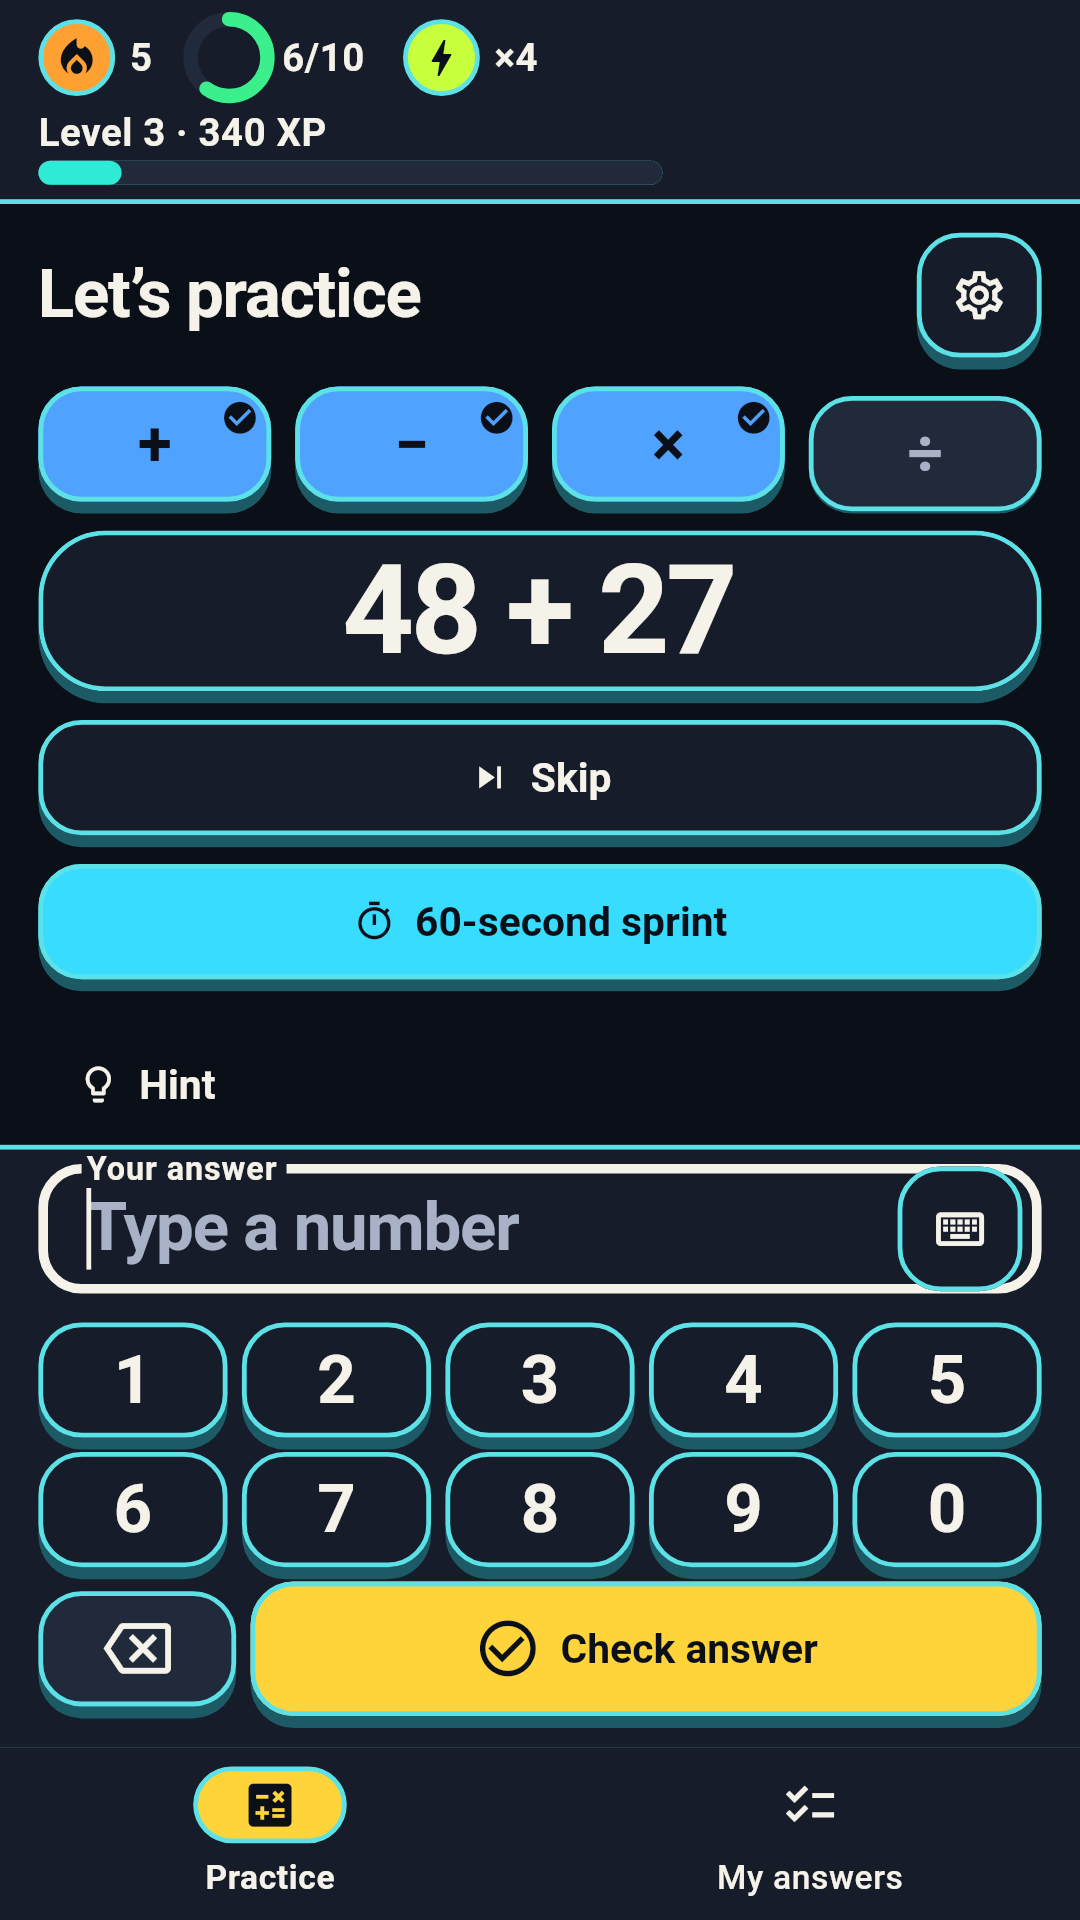
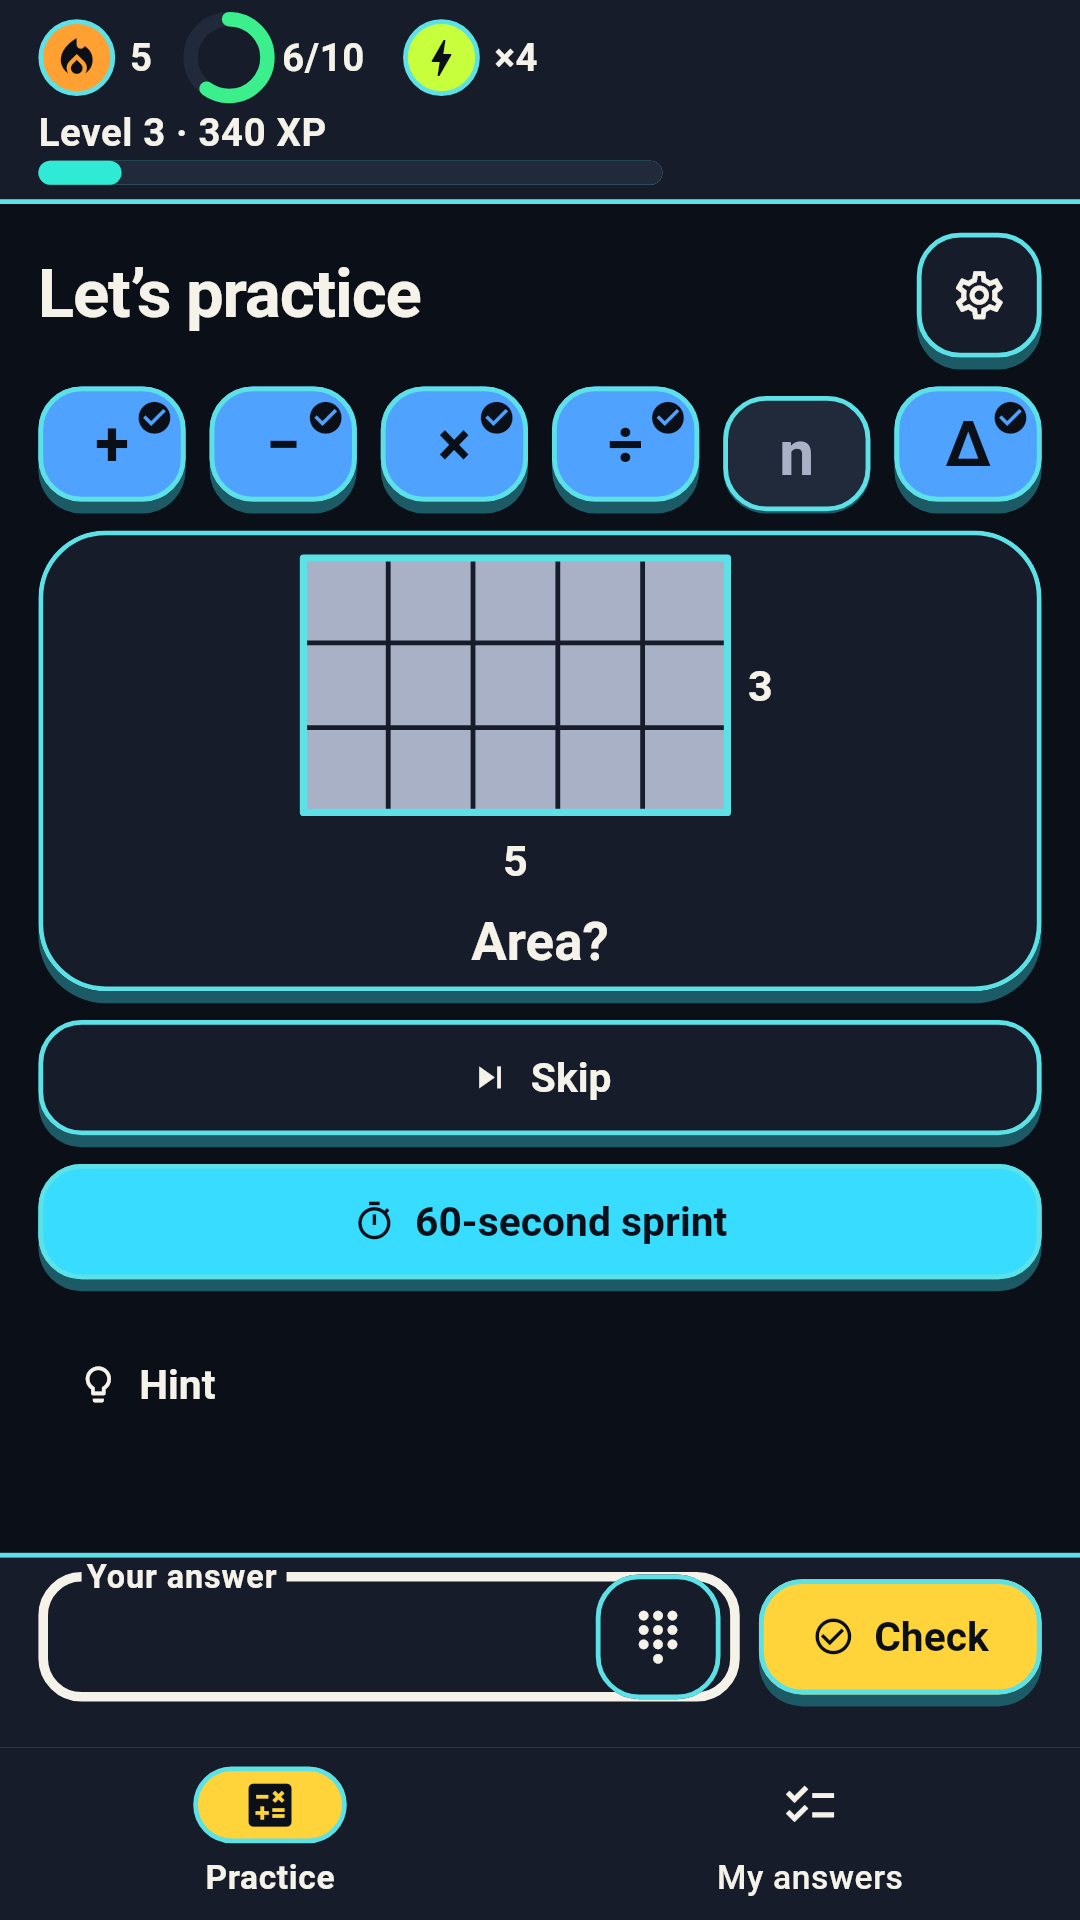
fix(translate): send plain strings, and document algebra and geometry (#144)
* fix(translate): send plain strings, and document algebra and geometry

The Translate workflow failed since #133 because DeepSeek answered some
batches (the same 20 keys for pl, fr and ro) with objects instead of
strings: each requested key was sent as {text, description}, and the
model mirrored that shape. Every value was rejected as "empty", and the
retries sent the same request again. Keys now go as plain key: text
pairs with the descriptions in a separate notes map, an answer object's
text is still accepted, and a rejected value that is not a string is
quoted in the log. The digit check is unchanged; it accepts all 3138
existing hashed translations.

Docs: docs/question-kinds.md lists the levels of algebra and geometry
with examples and counts, how correctness is checked and the saved
progress rules; DESIGN.md and README.md point to it. The English store
listing names the two kinds; phone-8-algebra.png is new and
phone-6-dark.png now shows geometry in the dark theme (Play allows 8).

* docs: keep level 3 out of an ordered list

* docs: credit figure questions from Illustrative Mathematics too

---------

diff --git a/app/lib/legal.dart b/app/lib/legal.dart
@@ -111,7 +111,8 @@ const List<({String name, String credit, String? licenseAsset})> attributions =
       (
         name: 'Illustrative Mathematics',
         credit:
-            'Equations and their printed answers from IM 6–8 Math (originally '
+            'Equations, figure questions and their printed answers from IM 6–8 '
+            'Math (originally '
             'developed by Open Up Resources and authored by Illustrative '
             'Mathematics, copyright 2017-2019 Open Up Resources; adaptations '
             'copyright 2019 Illustrative Mathematics) and IM K–5 Math '

diff --git a/docs/question-kinds.md b/docs/question-kinds.md
@@ -1,0 +1,116 @@
+# Algebra and geometry
+
+Besides the four arithmetic operations, the app has two more kinds of
+question: **algebra** (equations with one missing number) and **geometry**
+(figures drawn to scale). Both have five levels, like the arithmetic kinds.
+This page lists what each level asks and how the tests show that every
+question and answer is right. The counts below are the ones the tests print
+and check (`app/test/exhaustive_test.dart`, `app/test/geometry_test.dart`).
+
+## Off by default
+
+The four arithmetic operations are on by default. Algebra and geometry stay
+off until the player switches them on. A kind the player has never switched
+on, answered or closed gets a one-time card under the header ("New:
+Algebra", "Tap here to switch it on"). Tapping it switches the kind on;
+closing it hides that card for good. The card shows one kind at a time.
+
+Both kinds start at level 1 whatever starting tier the player chose (a tier
+sets only the arithmetic levels), and the 60-second sprint draws only from
+the arithmetic operations.
+
+## Algebra
+
+The unknown is an empty box at levels 1 and 2 and the letter *n* from
+level 3. Screen readers say "blank" for the box. Every answer is whole and at
+least 0, except at level 5, where answers can be below zero or in tenths.
+With algebra on, the number pad has a minus key and a decimal key.
+
+| Level | What it asks | Ranges | Example | Problems |
+|---|---|---|---|---|
+| 1 | A missing addend, subtrahend or minuend: a + □ = c, □ + a = c, c − □ = a, □ − a = b | a and b 0 to 10 | 3 + □ = 7 (4) | 484 |
+| 2 | A missing factor, divisor or dividend: □ × a = c, a × □ = c, c ÷ □ = a, □ ÷ a = b | a 2 to 10, b 1 to 10 | 18 ÷ □ = 6 (3) | 360 |
+| 3 | The same four forms with the letter *n*: n + a = c, n − a = b, a × n = c, n ÷ a = b | a 2 to 12, the other number 0 to 20 | 3 × n = 15 (5) | 924 |
+| 4 | Two steps: an + b = c and an − b = c (an means a × n) | a 2 to 9, b 1 to 20, n 1 to 20 | 2n + 3 = 11 (4) | 6111 |
+| 5 | Brackets, a division, answers below zero and in tenths: a(n − b) = c, a(n + b) = c, n ÷ a + b = c, an + b = c with n below zero, an = c with n in tenths | a 2 to 9, b 1 to 10, n −10 to 10 | 3n + 9 = 3 (−2), 4n = 10 (2.5) | 5920 |
+
+Hints undo one step at a time; only the last step states the answer,
+followed by a check with the answer put back into the equation.
+
+## Geometry
+
+The figure is drawn to scale in place of the question text, with a short
+prompt ("Perimeter?", "Area?") and cues that need no words: a thick outline
+for a perimeter, a shaded inside for an area. History and screen readers
+get a sentence that names the shape, every label and the question.
+Decimal answers (halves, circles) are exact hundredths, written with the
+language's decimal separator.
+
+| Level | What it asks | Ranges | Example | Problems |
+|---|---|---|---|---|
+| 1 | The perimeter of a square, a rectangle or a triangle | Sides 1 to 12, a rectangle's longer side at most 4 times the shorter; triangles with whole sides 2 to 12 and every angle at least 20° | Rectangle 5 by 3: 16 | 276 |
+| 2 | The area of a rectangle, with a unit grid on it | Sides 1 to 10, the longer at most 4 times the shorter | Rectangle 5 by 3: 15 | 84 |
+| 3 | A missing side (a `?` on the side) of a square or rectangle, from its perimeter or area | As level 1 | Perimeter 16, one side 5: 3 | 240 |
+| 4 | A missing angle, with an arc at every angle and a square in a right angle: in a triangle, on a straight line, in a right angle | Every angle whole and at least 20° (at least 10° in a right angle) | Triangle with 50° and 60°: 70 | 7593 |
+| 5 | The area of a right triangle; the perimeter and area of an L-shape and of rectangles with sides in halves; a circle's circumference (from its diameter) and area (from its radius), with "Use π = 3.14" shown | Legs 1 to 12; L-shapes with outer sides 4 to 12; halves 0.5 to 12; diameter 1 to 20, radius 1 to 10 | Legs 6 and 4: 12; 2.5 by 1.5: 3.75; diameter 6: 18.84 | 1568 |
+
+Hints name the sides or angles, then the calculation; only the last step
+states the answer.
+
+## How correctness is checked
+
+- **Pure builds over finite ranges.** Every algebra form and geometry
+  family is a pure function from a short list of whole numbers to a
+  question and its answer, and each level has a finite list of those
+  parameter lists. The tests list every problem of every level; nothing is
+  sampled.
+- **Independent oracles.** The tests check each question with code that
+  shares nothing with the app's builds and reads only what the child sees.
+  For algebra (`app/test/oracle.dart`), that is the displayed English
+  question text: it is parsed with the `math_expressions` package (a test-only
+  dependency), the equation must have exactly one solution, that solution
+  must be the app's answer, and putting it back must make both sides equal
+  in exact hundredths. For geometry (`app/test/geometry_oracle.dart`), it is
+  the shape type, the prompt and the drawn layout: each label belongs to its
+  nearest edge or angle, every drawn edge matches one common scale within
+  0.5%, right angles are right, the grid squares are evenly spaced and their
+  count is the area, and the oracle solves the figure from the labels.
+- **Exhaustive runs.** Algebra: 484, 360, 924, 6111 and 5920 problems
+  (levels 1 to 5), each through the oracle, and the oracle recomputes every
+  hint step of every problem. Geometry: 9761 problems, each laid out on 6
+  canvas sizes at text scale 1 and 2, 117132 oracle checks in all (3312,
+  1008, 2880, 91116 and 18816 for levels 1 to 5). Layout rules are checked
+  for every figure too: label text at least 12 px, labels inside the canvas
+  and apart from each other, readable colours in every palette.
+- **Mutation tests.** The oracles must reject wrong versions: an answer + 1,
+  a displayed number + 1, a generator that returns the result + 1, a hint
+  calculation off by 1 (algebra); an answer + 1, a label changed, moved or
+  hidden, the figure stretched by 20%, the prompts swapped, a grid square,
+  an angle arc or the π line removed, the radius and diameter cues swapped,
+  and the missing side moved (geometry).
+- **Textbook rows.** `app/test/algebra_known_answers_test.dart` holds
+  equations with the answers printed for them in Illustrative Mathematics
+  (see [attributions.md](attributions.md)). The oracle must accept each
+  printed answer and reject the answer + 1, and at least one row per level
+  is also built by the app's own generator. The rows cover a few forms per
+  level, not the whole range; some (such as 3e + 10.50 = 30) test the
+  oracle only, because the app does not ask them.
+  `app/test/geometry_known_answers_test.dart` does the same for figure
+  questions printed there (units dropped): the app builds each of them at
+  levels 2, 4 and 5, except one circle given by its diameter, which only
+  the oracle reads. The pages have no usable rows for levels 1 and 3, so
+  those rest on the oracle and on figures worked by hand in
+  `app/test/geometry_test.dart`, one or more per family.
+- **Whole hundredths, no floating point.** Answers are whole numbers of
+  hundredths (2.5 is 250). The app parses what the child types into
+  hundredths and compares whole numbers. Circles use π = 3.14, shown on the
+  screen, so a circumference is 314 × d hundredths and an area 314 × r × r.
+
+## Saved progress
+
+Each algebra or geometry answer is saved with its variant name (such as
+`anPlusB` or `circleArea`), its parameters, its level and its result
+(progress schema version 2). The variant names are permanent: renaming one
+would make old answers unreadable. An entry whose variant this build does
+not know, whose parameters do not fit, or whose stored result differs from
+what its parameters build is kept and saved back unchanged, not dropped.

diff --git a/docs/play-store/README.md b/docs/play-store/README.md
@@ -2,7 +2,7 @@
 
 - `icon-512.png`: 512 x 512, 32-bit PNG, full bleed (Play applies its own mask).
 - `feature-graphic-1024x500.png`: 1024 x 500, no alpha.
-- `phone-1-practice.png` to `phone-7-compact.png`: phone screenshots of a 450 x 800 dp phone, 1080 x 1920 (9:16), 24-bit PNG without alpha.
+- `phone-1-practice.png` to `phone-8-algebra.png`: phone screenshots of a 450 x 800 dp phone, 1080 x 1920 (9:16), 24-bit PNG without alpha.
   Made with `SCREENSHOT_DIR=<dir> SCREENSHOT_SIZE=450x800 SCREENSHOT_PIXEL_RATIO=2.4 flutter test tool/screenshots_test.dart`
   (in `app/`), then `magick <shot>.png -background white -alpha remove -alpha off PNG24:<name>.png`.
 
@@ -12,7 +12,7 @@ It also rewrites the Android, iOS, macOS, web and Windows icons in place.
 
 ## Phone screenshots in every language
 
-The **Play store listing** workflow (`.github/workflows/play-listing.yml`) shoots the seven phone screenshots in
+The **Play store listing** workflow (`.github/workflows/play-listing.yml`) shoots the eight phone screenshots in
 English and every app language, and replaces the phone screenshots of each listing in `play/listing/` with them, in the
 same edit as the texts. Run it with `screenshots` unticked to push the texts only. The icon and feature graphic are not
 touched. The English files here are kept for reference; they are not uploaded from this folder.
@@ -20,7 +20,7 @@ touched. The English files here are kept for reference; they are not uploaded fr
 A run from a branch (`gh workflow run play-listing.yml --ref <branch>`) only shoots: its `phone-screenshots` artifact
 holds one folder per Play language for review, and nothing is sent to Play.
 
-The tool writes many shots; these seven are the Play ones:
+The tool writes many shots; these eight are the Play ones (Play shows at most eight):
 
 | Play file | Tool shot |
 | --- | --- |
@@ -29,8 +29,9 @@ The tool writes many shots; these seven are the Play ones:
 | `phone-3-hints.png` | `light-450x800-3b-wrong-hints.png` |
 | `phone-4-sprint.png` | `light-450x800-5-sprint.png` |
 | `phone-5-my-answers.png` | `light-450x800-7-answers.png` |
-| `phone-6-dark.png` | `dark-450x800-1b-switched.png` |
+| `phone-6-dark.png` | `dark-450x800-14-geometry-rectangleArea-5x3-comfortable-x1.0.png` (geometry, dark theme) |
 | `phone-7-compact.png` | `light-450x800-11b-compact-answers.png` |
+| `phone-8-algebra.png` | `light-450x800-13g-algebra-level-4-hints.png` (algebra with its hint steps) |
 
 With `SCREENSHOT_LANGUAGES=de,hi` each name starts with the code, for example `de-light-450x800-1b-switched.png`.
 

diff --git a/docs/play-store.md b/docs/play-store.md
@@ -46,7 +46,7 @@ edit them there, not in Play Console. Every app language has its own listing in
 - After that pull request is merged, push all listings to Play by hand:
   `gh workflow run play-listing.yml` (from `main`). It replaces the title and
   both descriptions of every language in one edit; Google reviews the change.
-  By default it also shoots the seven phone screenshots in every language and
+  By default it also shoots the eight phone screenshots in every language and
   replaces each listing's phone screenshots with them (untick `screenshots`
   for texts only). See [play-store/README.md](play-store/README.md), which
   also says how to add a language.
@@ -69,7 +69,7 @@ Stored in [`docs/play-store/`](play-store/) (see its README for how they are mad
 |---|---|---|
 | App icon | 512 x 512 PNG | [`play-store/icon-512.png`](play-store/icon-512.png) |
 | Feature graphic | 1024 x 500 PNG or JPEG, no alpha | [`play-store/feature-graphic-1024x500.png`](play-store/feature-graphic-1024x500.png) |
-| Phone screenshots | 2 to 8, 9:16, 1080 x 1920 | Shot and uploaded per language by `play-listing.yml`, in the order of `play-store/phone-1-practice.png` to `play-store/phone-7-compact.png` (the English ones) |
+| Phone screenshots | 2 to 8, 9:16, 1080 x 1920 | Shot and uploaded per language by `play-listing.yml`, in the order of `play-store/phone-1-practice.png` to `play-store/phone-8-algebra.png` (the English ones; 8 is Play's maximum) |
 
 ## App content declarations
 

diff --git a/DESIGN.md b/DESIGN.md
@@ -31,7 +31,10 @@ ask a missing side (a `?` on the side, the perimeter or area given), a missing
 angle (an arc at every angle, a square in a right angle), the area of a right
 triangle, an L-shape, rectangles with sides in halves, and a circle's
 circumference or area with "Use π = 3.14" shown; decimal answers are exact
-hundredths, written with the language's decimal separator. Combo, XP, player levels, a daily goal and a daily streak reward progress.
+hundredths, written with the language's decimal separator. A kind that is off
+and was never used gets a one-time card under the header that switches it on
+in one tap. Level tables, how every question is checked, and the rules for
+saved answers: [docs/question-kinds.md](docs/question-kinds.md). Combo, XP, player levels, a daily goal and a daily streak reward progress.
 Retry and skip behavior stay. Progress and the last 200 answers are saved on the
 device. No accounts, cloud features or leaderboards. Success means a child can
 enter, check, retry and move on without losing input or context, and sees progress

diff --git a/docs/translations.md b/docs/translations.md
@@ -33,7 +33,11 @@ when that language has no translation; Settings > Language overrides it.
    plurals and digits, runs the translation tests, and opens a pull request
    from the branch `translations/auto`, or updates the open one. Strings
    go to DeepSeek in batches of up to 60 (about 4500 English characters,
-   `max_tokens` 32768). When a batch fails (HTTP error, an answer cut off or
+   `max_tokens` 32768), as plain `key: text` pairs with the descriptions in
+   a separate `notes` map (when each key was an object with its text and
+   description, the model sometimes answered with objects, which failed
+   every retry; an answer object's `text` is still accepted, and a rejected
+   value that is not a string is quoted in the log). When a batch fails (HTTP error, an answer cut off or
    not valid JSON), its keys are sent again in batches of 20, each with up
    to two retries; a rejected or missing string is sent again the same way,
    alone with the other failed keys. A string that fails every attempt keeps

diff --git a/README.md b/README.md
@@ -2,7 +2,9 @@
 
 A friendly arithmetic practice app for school beginners. Practice with addition,
 subtraction, multiplication and division, then review answers for the current
-session. Supports web, Android and iOS.
+session. Algebra (equations with one missing number) and geometry (perimeter,
+area, sides and angles of figures drawn to scale) can be switched on; see
+[docs/question-kinds.md](docs/question-kinds.md). Supports web, Android and iOS.
 
 ## Local setup
 
